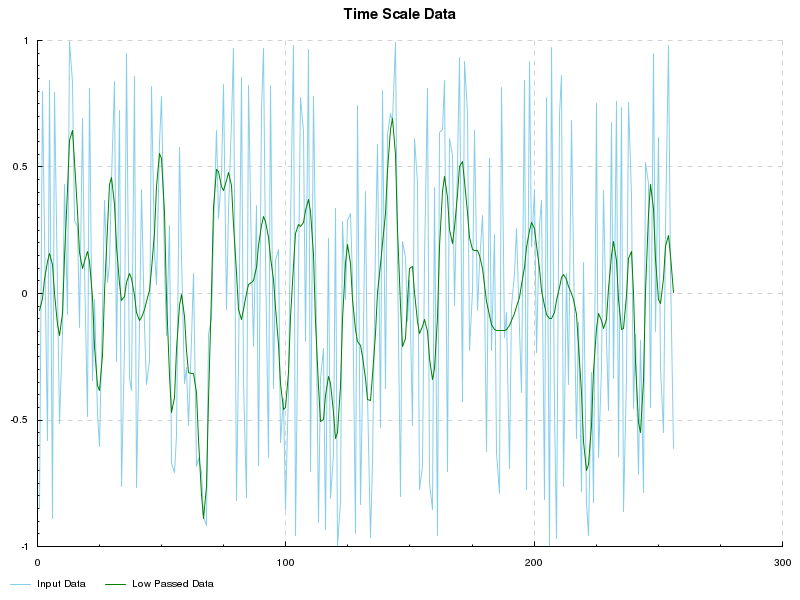
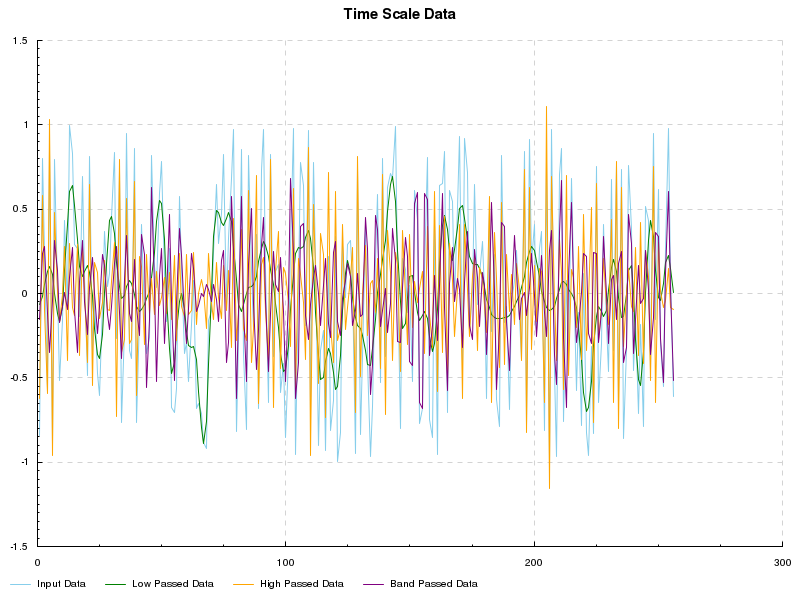
Add High/Band Pass filter

Changed region(s): [[0.0, 0.09, 0.8438, 0.9], [0.4688, 0.96, 0.5938, 0.99], [0.3125, 0.96, 0.4375, 0.99]]

diff --git a/README.md b/README.md
@@ -5,20 +5,24 @@
 ### Feature
 
 1. Generate Random Number (-1 <= n <= 1) ... *1
-1. Low Pass Filtering of *1 ... *2
+1. Low/High/Band Pass Filtering of *1 ... *2
 1. DFT of *1 and *2 ... *3
 1. Drawing Chart of *1 ~ *3 to PNG Files
 
 ### Chart
 
-![Time Scale Chart](01_time_scale.png)
+![Time Scale Chart(Low Pass)](time_scale_lowpass.png)
 
-![Frequency Scale Chart](02_frequency_scale.png)
+![Time Scale Chart(High Pass)](time_scale_highpass.png)
+
+![Time Scale Chart(Band Pass)](time_scale_bandpass.png)
+
+![Frequency Scale Chart](frequency_scale.png)
 
 ### Parameter
 
 * Number of Data
-* Cutoff Frequency
+* Cutoff Frequency(Low/High)
 * Transition Band
 
 ### Filter Design
